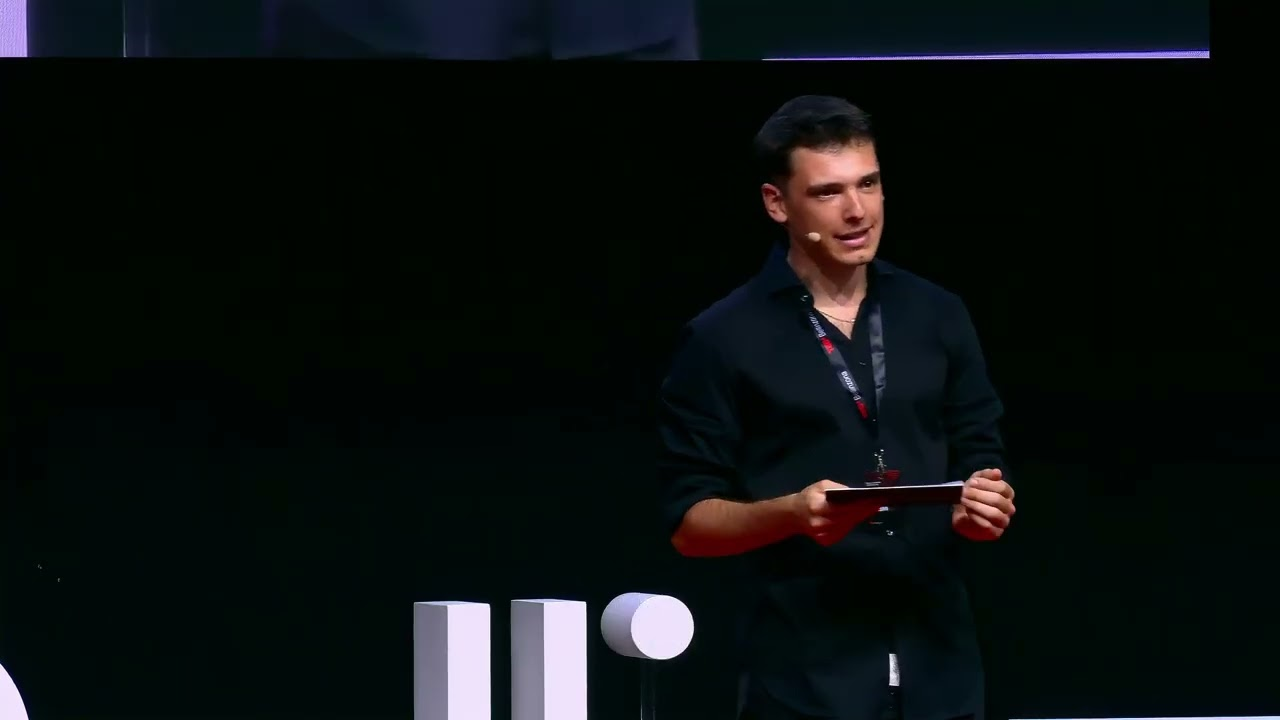
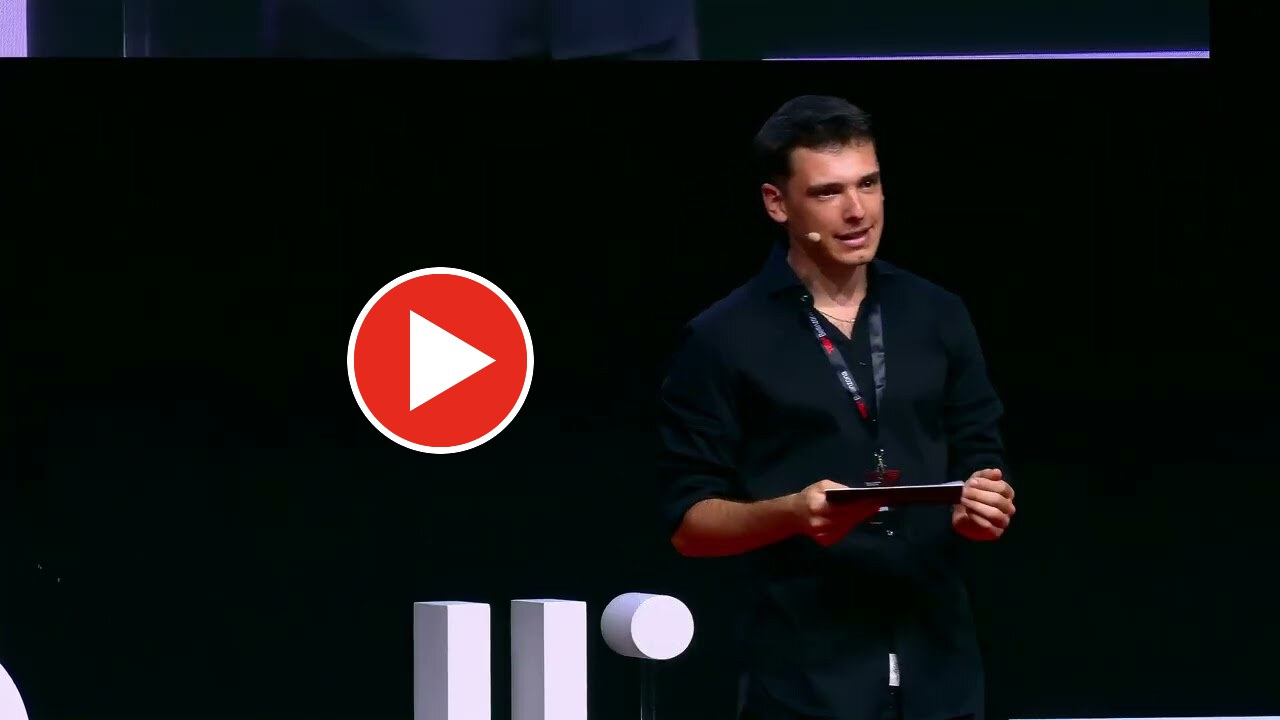
TEDx post: LinkedIn text, video play button, press labels; no subtitle

Changed region(s): [[0.25, 0.3667, 0.4375, 0.6417]]

diff --git a/posts/tedxbellinzona-2026.html b/posts/tedxbellinzona-2026.html
@@ -3,7 +3,7 @@
 <head>
     <meta charset="UTF-8">
     <meta name="viewport" content="width=device-width, initial-scale=1.0">
-    <meta name="description" content="A few personal notes on the fourth edition of TEDxBellinzona.">
+    <meta name="description" content="Personal website and blog">
     <meta name="author" content="Nicola Lo Russo">
     
         <link rel="canonical" href="http://localhost">
@@ -13,11 +13,11 @@
         <meta property="og:type" content="article">
     <meta property="og:site_name" content="Nicola Lo Russo">
     <meta property="og:title" content="TEDxBellinzona 2026">
-    <meta property="og:description" content="A few personal notes on the fourth edition of TEDxBellinzona.">
+    <meta property="og:description" content="Personal website and blog">
     <meta property="og:url" content="http://localhost">
     <meta name="twitter:card" content="summary">
     <meta name="twitter:title" content="TEDxBellinzona 2026">
-    <meta name="twitter:description" content="A few personal notes on the fourth edition of TEDxBellinzona.">
+    <meta name="twitter:description" content="Personal website and blog">
     
     <!-- External Stylesheets -->
     <link rel="stylesheet" href="https://cdnjs.cloudflare.com/ajax/libs/font-awesome/5.15.4/css/all.min.css">
@@ -52,8 +52,7 @@
         "@type": "Person",
         "name": "Nicola Lo Russo"
     },
-    "datePublished": "2026-10-30T00:00:00+00:00",
-    "description": "A few personal notes on the fourth edition of TEDxBellinzona."
+    "datePublished": "2026-10-30T00:00:00+00:00"
 }</script><header>
     <div>
         <div style="text-align: center;">
@@ -110,18 +109,21 @@
             
             <div class="post-content">
                                     <h1>TEDxBellinzona 2026</h1>
-                                            <div class="post-description">A few personal notes on the fourth edition of TEDxBellinzona.</div>
                                         <div class="post-date">Oct. 30, 2026</div>
-                                <p>On September 12 we held the fourth edition of TEDxBellinzona at the Officine of Bellinzona.</p>
-<p>TEDxBellinzona is organized by a group of young volunteers. Within the group I take care of the creative side and the curation of the event. This year I also opened the evening.</p>
-<p><a href="https://www.youtube.com/watch?v=derXgVXFJPk"><img src="tedxbellinzona-2026/talk.jpg" alt="My opening talk at TEDxBellinzona 2026" /></a></p>
-<p><em>The talk is in Italian.</em></p>
-<p>More than 600 people came. Thanks to everyone who was there, and to the whole team.</p>
+                                <p>More than 600 people joined us on Saturday for the fourth edition of TEDxBellinzona, Viaggio 🚀</p>
+<p>As Head of Curators, I had the honour of shaping the program and working closely with our speakers to bring their ideas to the stage of the Cattedrale delle Officine FFS. A huge thank you and congratulations to Bruno Giussani, Vera Giampietro, Annalisa Manera, Roberto Balzaretti, Gea Cereghetti and Alessandro Mele for their enthusiasm and inspiring talks.</p>
+<p>Special thanks also to Sergio P. Ermotti and Christa Rigozzi for a memorable interview, and to Caroline Roth for her brilliant moderation once again.</p>
+<p>I couldn't be prouder of the TEDxBellinzona team of volunteers, always ready to give up evenings and weekends for organizing this.</p>
+<p>As I said when opening the event, my hope is that everyone went home a little more curious than they arrived. Thank you to everyone who believed in us and helped make it happen.</p>
+<p>See you in 2027... 👀</p>
+<p><a href="https://www.youtube.com/watch?v=derXgVXFJPk"><img src="tedxbellinzona-2026/talk.jpg" alt="Video of my opening of TEDxBellinzona 2026" /></a></p>
+<p><a href="https://www.youtube.com/watch?v=derXgVXFJPk">▶ Watch the video of my opening of the evening on YouTube</a> (in Italian)</p>
 <p>In the press:</p>
 <ul>
-<li><a href="https://www.rsi.ch/rete-uno/programmi/intrattenimento/millevoci/Idee-che-vale-la-pena-condividere--3987870.html">RSI Rete Uno, <em>Millevoci</em>, Sep. 7, 2026</a></li>
-<li><a href="https://www.cdt.ch/news/ticino/tutti-a-bordo-signori-le-idee-ripartono-con-tedx-bellinzona-438960">Corriere del Ticino, Sep. 12, 2026</a></li>
-<li><a href="https://www.cdt.ch/news/dalle-officine-parte-il-viaggio-della-mente-in-650-a-bordo-di-tedxbellinzona-439041">Corriere del Ticino, Sep. 13, 2026</a></li>
+<li><a href="https://www.rsi.ch/rete-uno/programmi/intrattenimento/millevoci/Idee-che-vale-la-pena-condividere--3987870.html">My interview with the team on RSI Rete Uno, <em>Millevoci</em>, Sep. 7, 2026</a></li>
+<li><a href="https://www.cdt.ch/news/ticino/tutti-a-bordo-signori-le-idee-ripartono-con-tedx-bellinzona-438960">Corriere del Ticino, before the event, Sep. 12, 2026</a></li>
+<li><a href="https://www.cdt.ch/news/dalle-officine-parte-il-viaggio-della-mente-in-650-a-bordo-di-tedxbellinzona-439041">Corriere del Ticino, after the event, Sep. 13, 2026</a></li>
+<li>La Turrita, Sep. 2026 (print edition)</li>
 </ul>            </div>
             
             <!-- Post Navigation -->

diff --git a/cv.html b/cv.html
@@ -178,7 +178,7 @@
     <div class="work-item">
         <h3>Head of Curators and Co-organizer - TEDxBellinzona</h3>
         <p class="date">Mar. 2024 - Ongoing</p>
-        <p>Lead curation and speaker selection, and co-organize TEDxBellinzona.<br><span class="no-break-line"><a href="https://www.youtube.com/watch?v=derXgVXFJPk" class="dl-link">Opening talk, TEDxBellinzona 2026</a></span></p>
+        <p>Lead curation and speaker selection, and co-organize TEDxBellinzona.<br><span class="no-break-line"><a href="https://www.youtube.com/watch?v=derXgVXFJPk" class="dl-link">Video: my opening of TEDxBellinzona 2026</a></span></p>
     </div>
 
     <div class="work-item">
